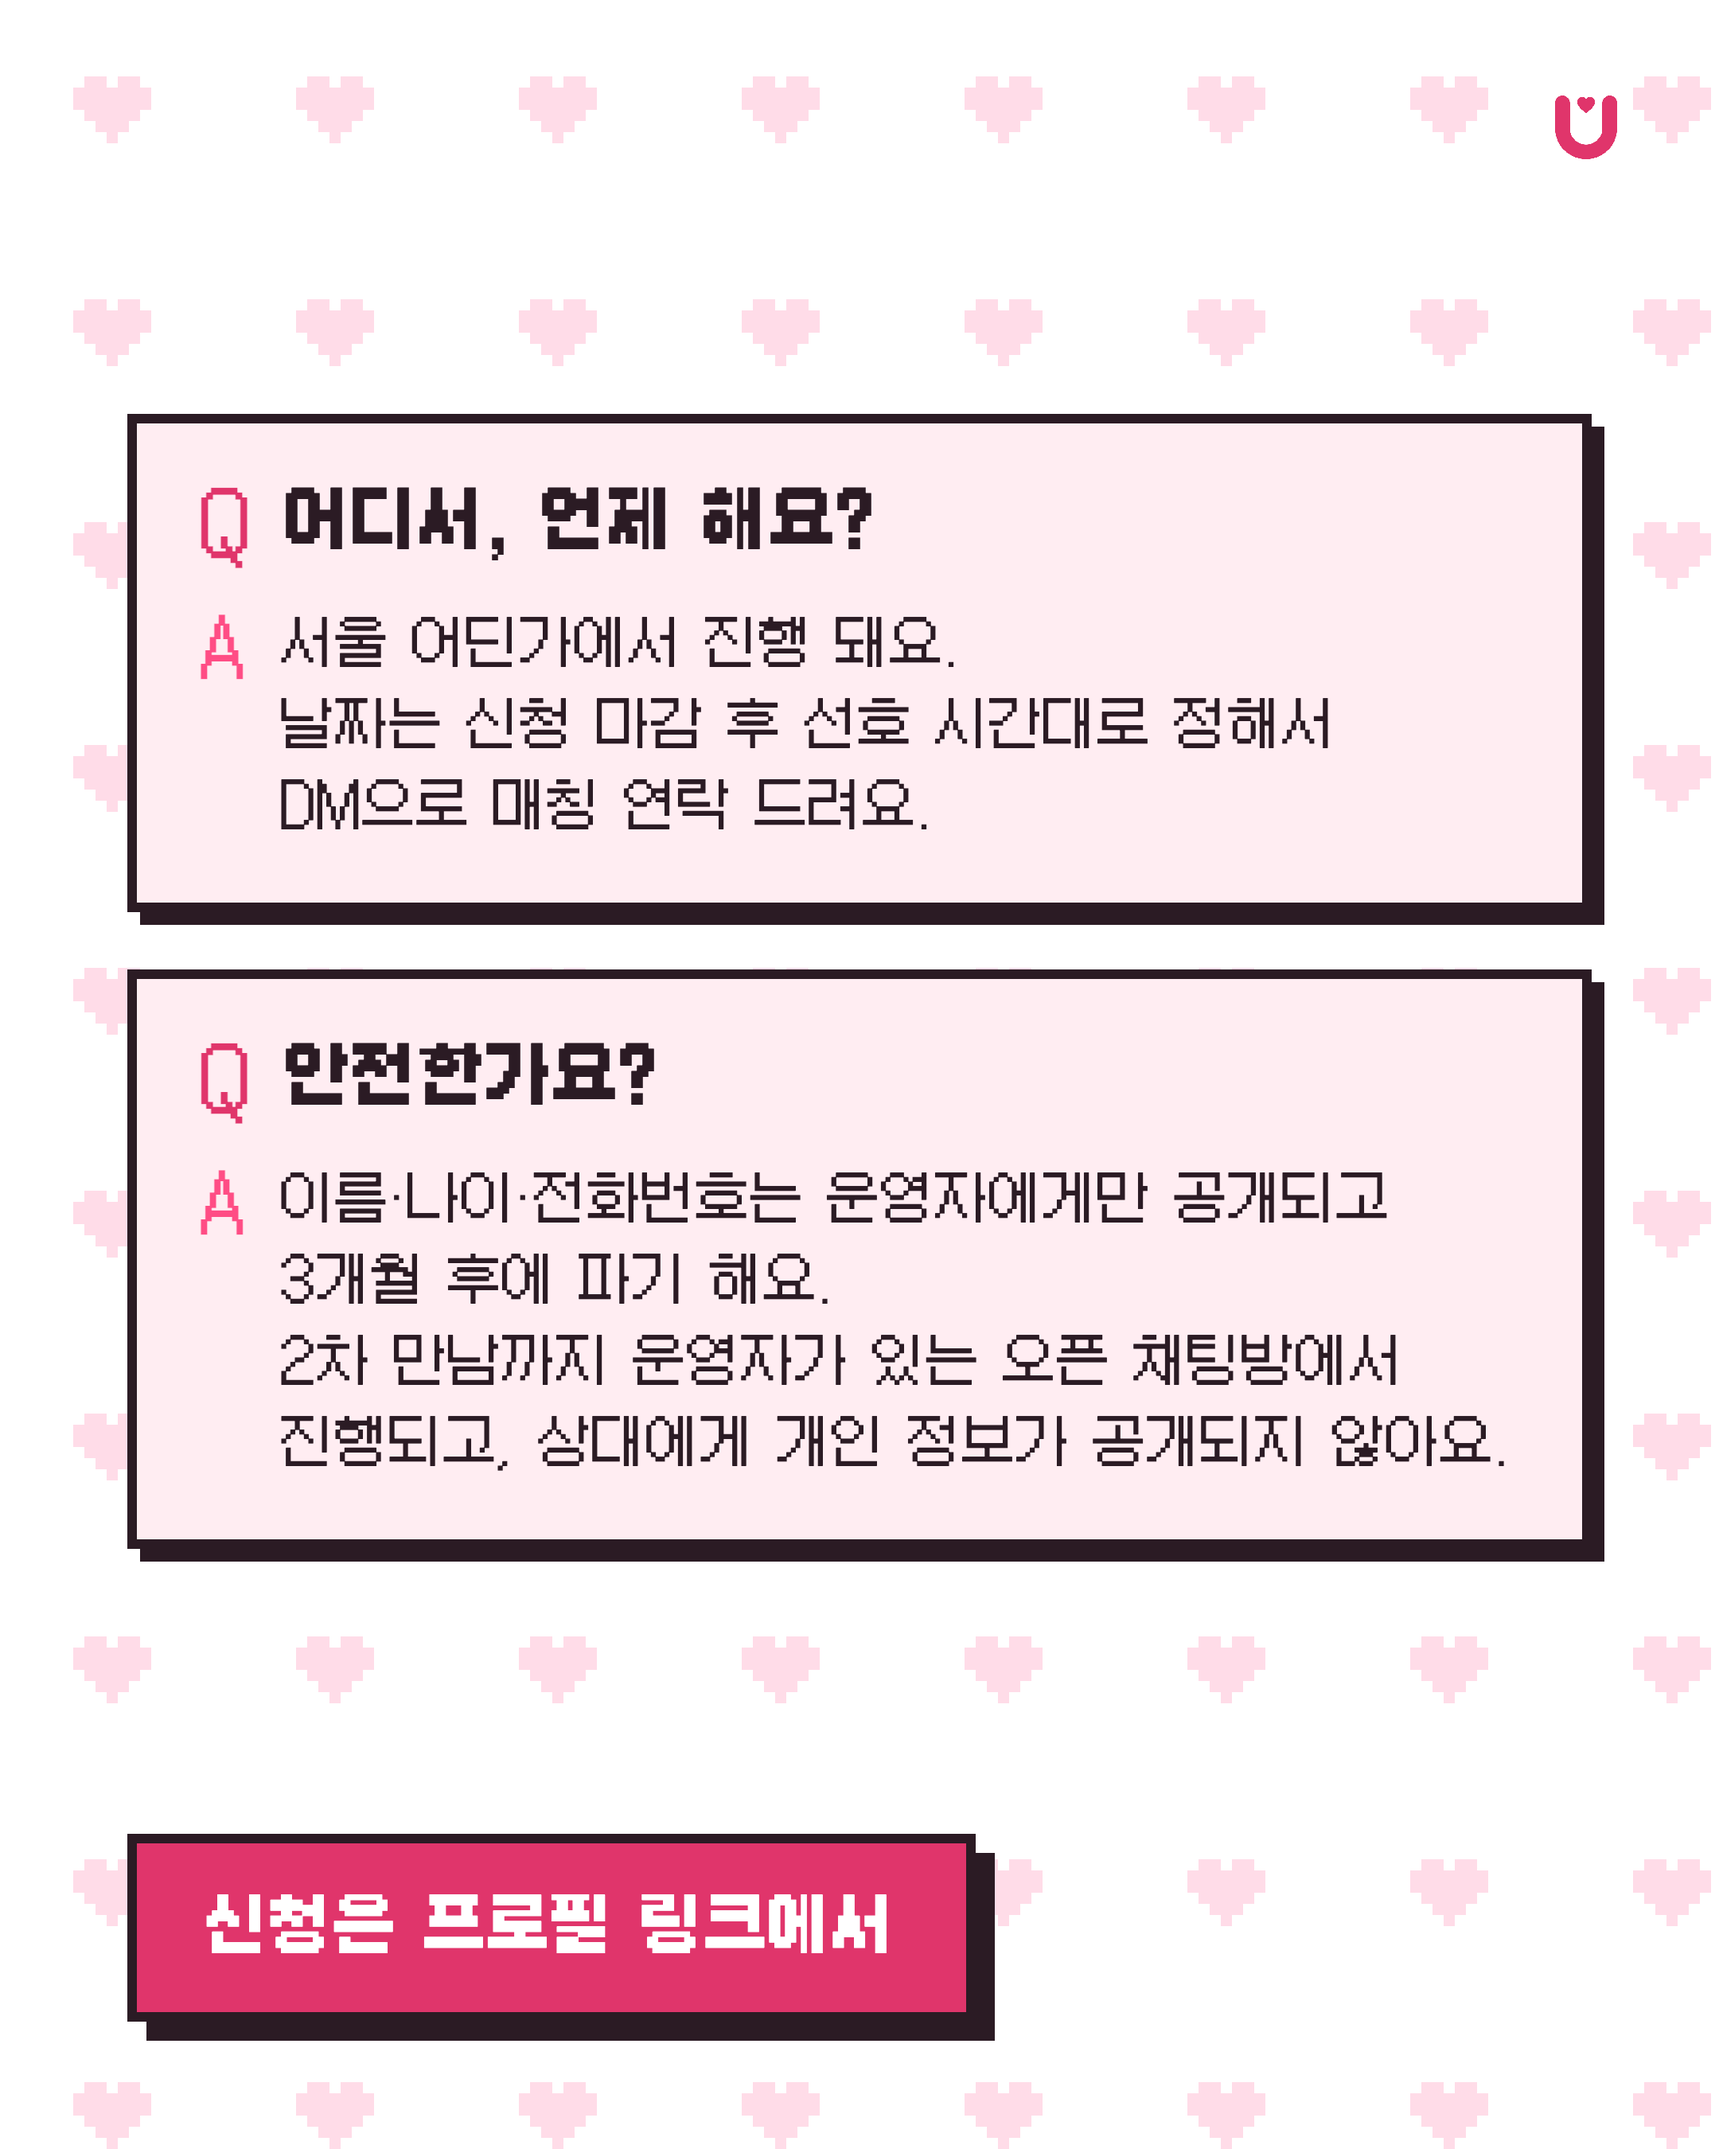
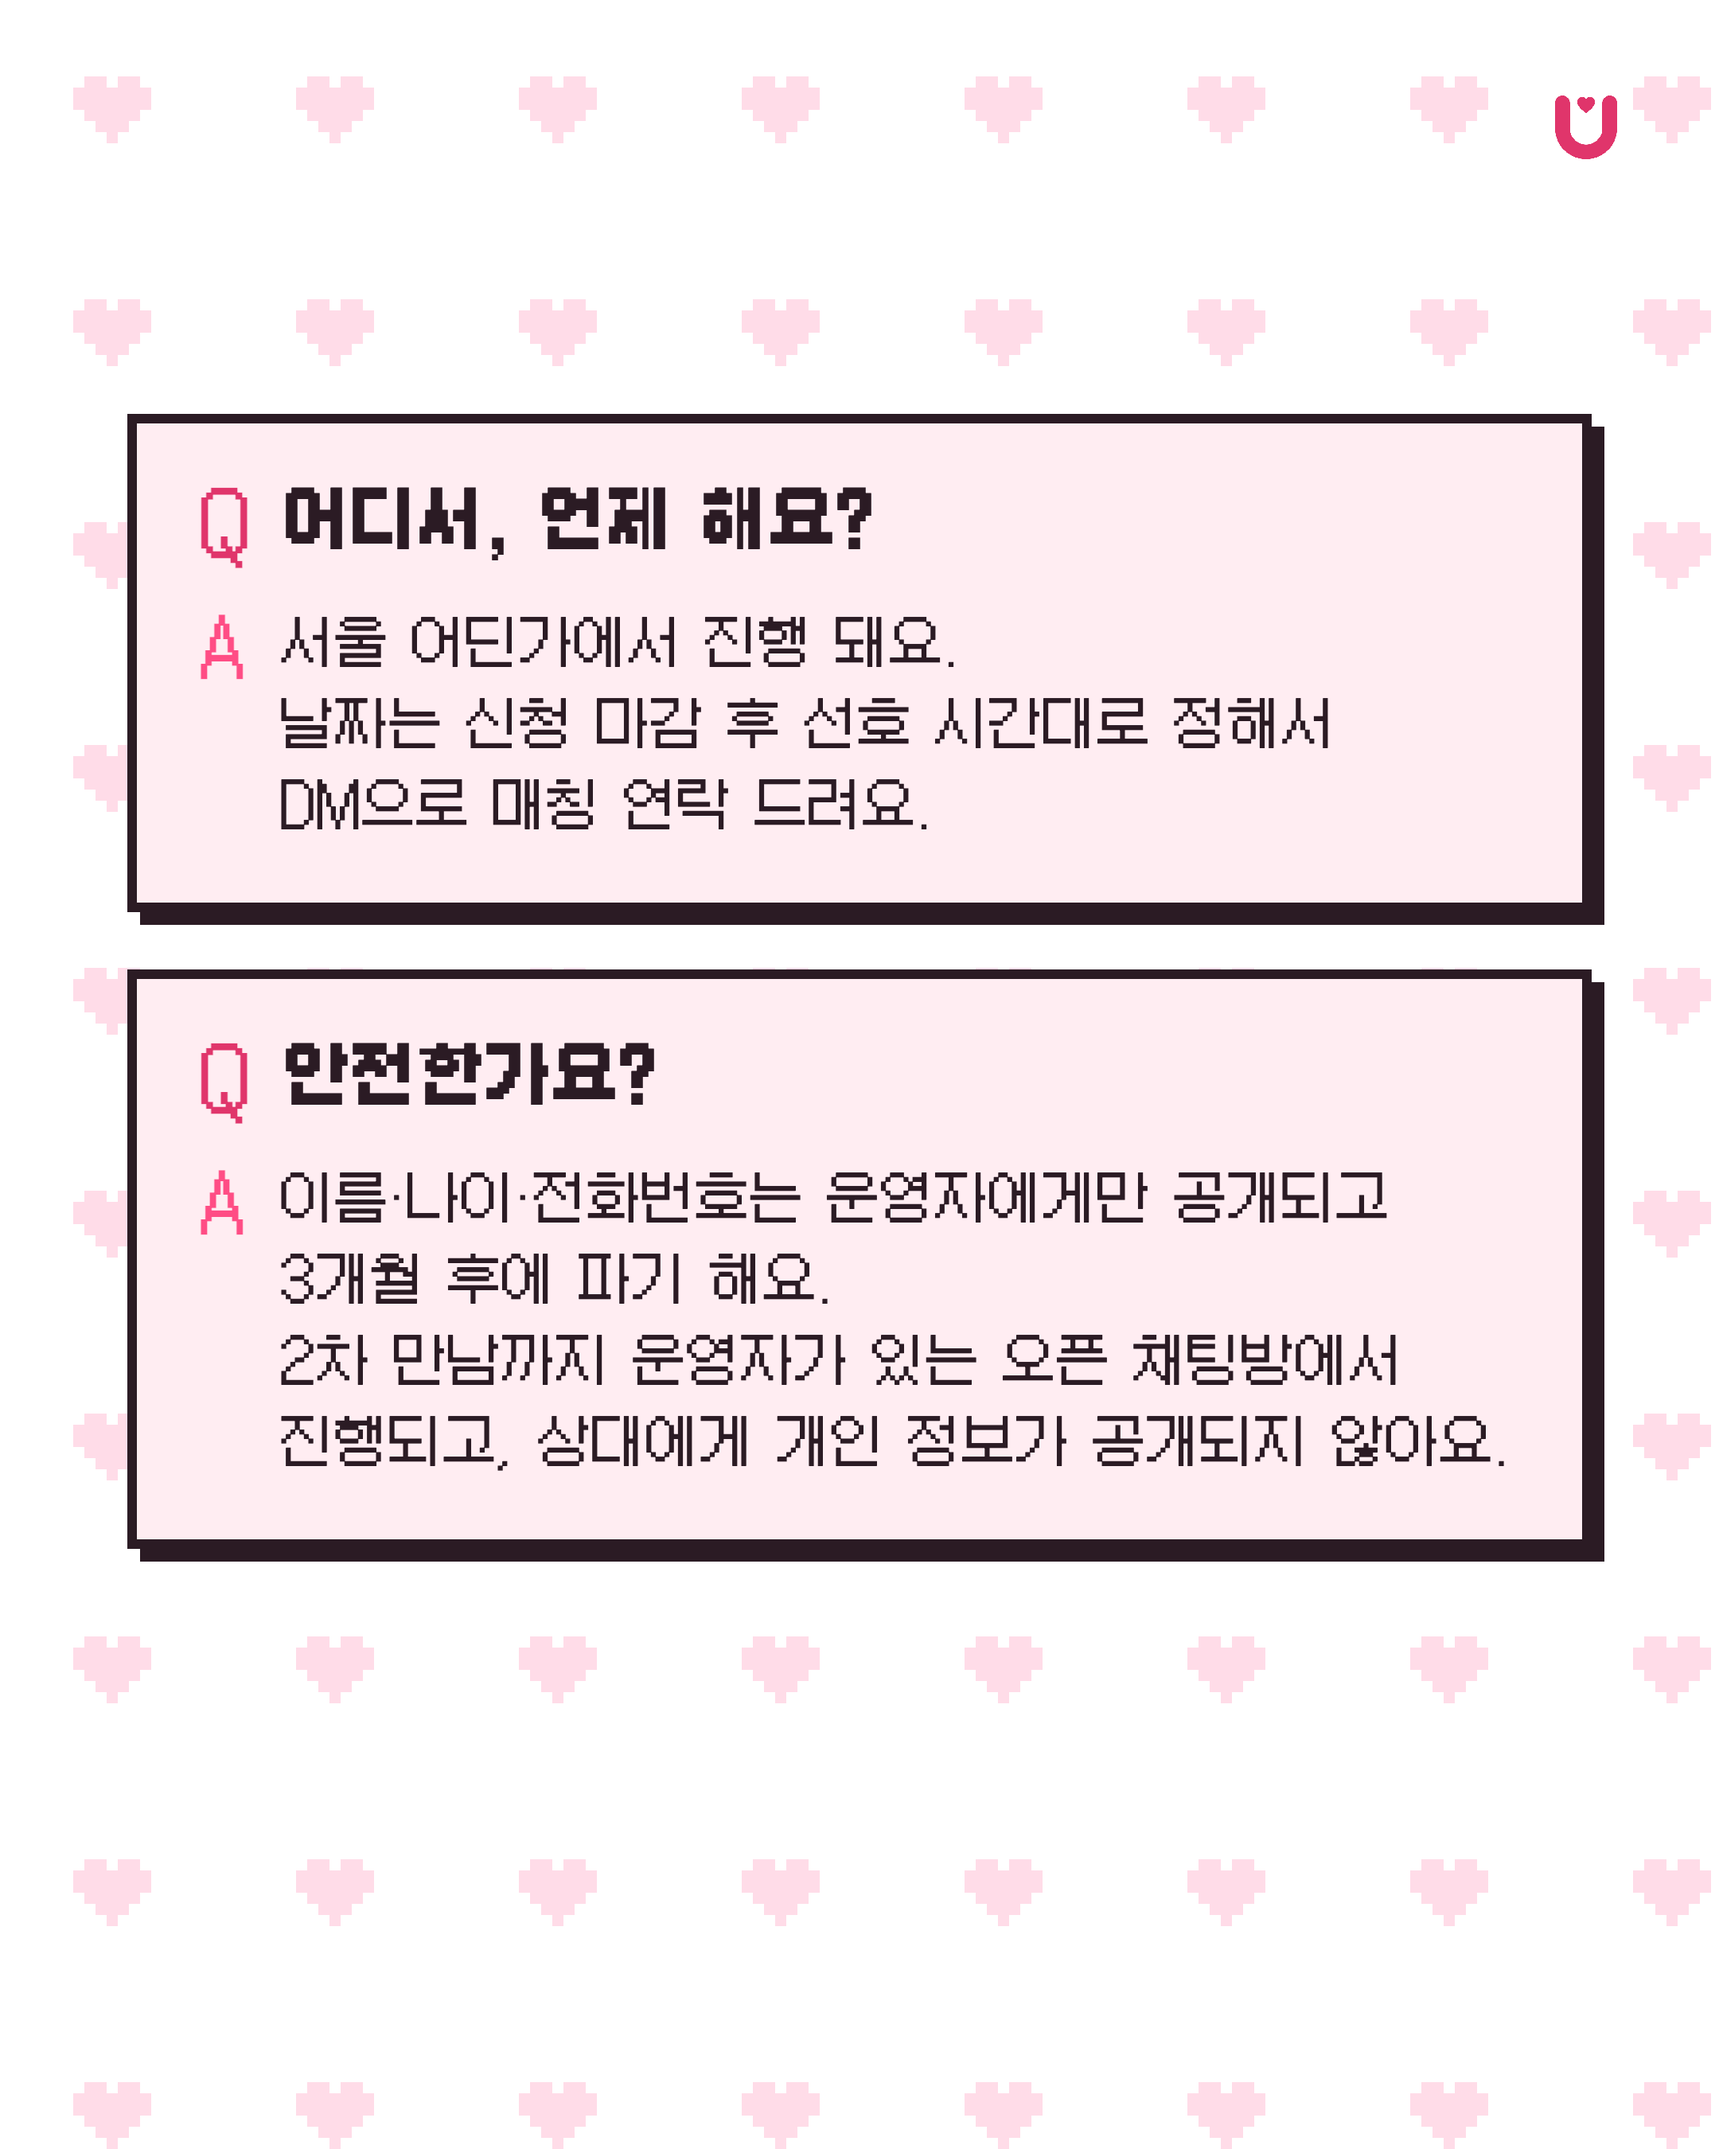
QnA에 우클링 소개 페이지 추가 (02_QnA_04)
- Q 우클링이 뭐예요 / Q 어디서 주관하는 건가요 2문항
- 우클링 = '우리들의 클래스 링크' 원데이 클래스 예약 플랫폼,
  과기정통부 지원 AI·SW 마에스트로 개발팀 주관
- CTA를 마지막 카드로 이동, out/ PNG 9장 갱신

Claude-Session: https://claude.ai/code/session_016NTfZYusKQijEUYPhviCHK

Changed region(s): [[0.062, 0.84, 0.5894, 0.9644]]

diff --git a/insta/cards.html b/insta/cards.html
@@ -303,6 +303,21 @@
       <div class="a"><span class="amark">A</span><span class="atext">이름·나이·전화번호는 운영자에게만 공개되고<br />3개월 후에 파기 해요.<br />2차 만남까지 운영자가 있는 오픈 채팅방에서<br />진행되고, 상대에게 개인 정보가 공개되지 않아요.</span></div>
     </div>
   </div>
+</section>
+
+<!-- 4 (우클링 소개) + CTA -->
+<section class="card set2 qna-bg" data-name="02_QnA_04">
+  <img class="card__logo" src="assets/ucling-wordmark-round-rose.png" alt="우클링" />
+  <div class="qa-list">
+    <div class="qa">
+      <div class="q"><span class="qmark">Q</span><span class="qtext">우클링이 뭐예요?</span></div>
+      <div class="a"><span class="amark">A</span><span class="atext">'우리들의 클래스 링크'라는 뜻의<br />원데이 클래스 예약 플랫폼 앱이에요.<br />다양한 종류의 만남을 클래스를 통해<br />이어주는 서비스를 하고 있어요.</span></div>
+    </div>
+    <div class="qa">
+      <div class="q"><span class="qmark">Q</span><span class="qtext">어디서 주관하는 건가요?</span></div>
+      <div class="a"><span class="amark">A</span><span class="atext">과학기술정보통신부의 지원을 받는<br />AI·SW 마에스트로의 개발팀에서<br />주관하고 있어요.</span></div>
+    </div>
+  </div>
   <div class="grow"></div>
   <span class="cta">신청은 프로필 링크에서</span>
 </section>
